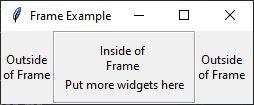
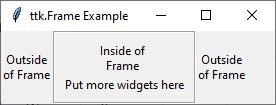
Finished Widget Descriptions

diff --git a/Lectures/tkinter_details.md b/Lectures/tkinter_details.md
@@ -2,6 +2,26 @@
 
 ## Contents
 * <a href="#widget-reference">Using `tkinter` package</a>
+  * <a href="#importing-tkinter-into-your-code">Importing `tkinter` into your code</a>
+  * <a href="#widgets">Widgets</a>
+  * <a href="#geometry-managers">Geometry Managers</a>
+  * <a href="#root-window">Root Window</a>
+  * <a href="#adding-a-widget">Adding A Widget</a>
+  * <a href="#placingdisplaying-widget-in-parent">Placing/Displaying a Widget in Parent</a>
+  * <a href="#activating-gui--starting-root-window">Activating GUI / Starting Root Window</a>
+* <a href="#widget-reference">Widget Reference</a>
+  * <a href="#general">General</a>
+  * <a href="#tk-vs-ttk-widgets">`tk` vs `ttk` Widgets</a>
+  * <a href="#options-common-to-many-widgets">Options common to many widgets</a>
+  * <a href="#common-widgets">Common Widgets</a>
+    * <a href="#window">Window</a>
+    * <a href="#frame">Frame</a>
+    * <a href="#label">Label</a>
+    * <a href="#button">Button</a>
+    * <a href="#checkbutton">Checkbutton</a>
+    * <a href="#radiobutton">Radiobutton</a>
+    * <a href="#entry">Entry</a>
+    * <a href="#combobox">Combobox</a>
 
 ## Using `tkinter` package
 
@@ -54,10 +74,10 @@ root = tk.Tk()  # Defines the top (root) window.
 ```
 To this root window, we now add widgets.
 
-### Creating a Widget
-When creating a child widget, you must always specify the parent widget into 
-which to place the child.  This specification of the parent widget is always 
-done as the first parameter in the call to create a widget.
+### Adding a Widget
+When adding a widget to your GUI, you must always specify the parent widget 
+into which to place the child.  This specification of the parent widget is 
+always done as the first parameter in the call to create a widget.
 
 For example:
 ```
@@ -237,9 +257,9 @@ widgets are listed in the Widgets of Interest section below.
 
 
 
-### Widgets
+### Common Widgets
 #### Window  
-  + ![Window](lecture_files/widget_images/window_widget.JPG)
+![Window](lecture_files/widget_images/window_widget.JPG)
 + `tk.Tk()`  
   `tk.toplevel()`
 + Creates a window.  Use `tk.Tk()` to define the base/root window and use 
@@ -248,29 +268,46 @@ widgets are listed in the Widgets of Interest section below.
   + `background` sets the window background color
 + Options:
   + `background`, `borderwidth`, `height`, `padx`, `pady`, `relief`, `width`
-+ Common Methods:
-  + `.geometry()` returns a string containing the current size and location of
-    the window.  The string will be formatted as `"WxH+X+Y"`.  `W` and `H` are the
-    width and height of the window, in pixels, and are separated by the `x` 
-    character.  `X` is the distance, in pixels, between the top of the screen
-    and the top of the window. `Y` is the distance, in pixels, between the
-    left side of the screen and the left side of the window.  Both `X` and `Y`
-    are generally preceded by the `+` character.  If one of the `+` is replaced
-    by a `-`, then the following distance is related to the opposite side of
-    the screen.  So `"WxH-X-Y"` means that `X` is now the distance between the
-    right side of the screen the the right side of the window, and `Y` is the
-    difference between the bottom of the screen and the bottom of the window.
-  + `.geometry("WxH+X+Y")` sets the initial geometry of the window.  The
-    definition of the input string is the same as described above.  To set the
-    size only, the string can contain only `"WxH"`.  To specify the location
-    only, the string can contain only `"+X+Y"`.
-  + `.minsize(width, height)` and `.maxsize(width, height)` set the minimum
-    and maximum size of the window.
-  + `.title(string)` sets the title of the window as found in the window bar.
++ Common Methods Specific to Window:
+  + `.geometry()` 
+    + returns a string containing the current size and location of
+      the window.  The string will be formatted as `"WxH+X+Y"`.  `W` and `H` are the
+      width and height of the window, in pixels, and are separated by the `x` 
+      character.  `X` is the distance, in pixels, between the top of the screen
+      and the top of the window. `Y` is the distance, in pixels, between the
+      left side of the screen and the left side of the window.  Both `X` and `Y`
+      are generally preceded by the `+` character.  If one of the `+` is replaced
+      by a `-`, then the following distance is related to the opposite side of
+      the screen.  So `"WxH-X-Y"` means that `X` is now the distance between the
+      right side of the screen the the right side of the window, and `Y` is the
+      difference between the bottom of the screen and the bottom of the window.
+  + `.geometry("WxH+X+Y")` 
+    + sets the initial geometry of the window.  The
+      definition of the input string is the same as described above.  To set the
+      size only, the string can contain only `"WxH"`.  To specify the location
+      only, the string can contain only `"+X+Y"`.
+  + `.mainloop()` 
+    + only applies to `tk.Tk()` 
+    + displays the GUI and starts the
+      background loop waiting for any GUI user events.
+  + `.minsize(width, height)`
+    + sets the minimum size of the window.
+  + `.maxsize(width, height)` 
+    + sets the maximum size of the window.
+  + `.title(string)` 
+    + sets the title of the window as found in the window bar.
++ Example Code:
+  ```python
+  root = tk.Tk()
+  root.title("Root Window")
+  root.geometry("400x100")
+  root.mainloop()
+  ```
 
 #### Frame   
-  * ![Frame](lecture_files/widget_images/frame_widget.JPG)  
-  * `frame = ttk.Frame(parent, **options)`
+![Frame](lecture_files/widget_images/frame_tk_widget.JPG)  ![Frame](lecture_files/widget_images/frame_widget.JPG)
+  * `tk.Frame(parent, **options)`
+  * `ttk.Frame(parent, **options)`
   * Can be used to organize a GUI.  Creates a rectangular container inside 
     the parent widget.  The frame then has its own grid manager in which to 
     arrange its own child widgets while the frame is managed by its parents
@@ -279,9 +316,42 @@ widgets are listed in the Widgets of Interest section below.
     * `tk`: `background`, `borderwidth`, `height`, `padx`, `pady`, `relief`,
       `width`
     * `ttk`: `borderwidth`, `height`, `padding`, `relief`, `width`
+  * Example code:
+    ```python
+    frame = ttk.Frame(root, borderwidth=10, relief=tk.GROOVE)
+    frame.grid(column=1, row=0)
+    label1 = ttk.Label(frame, text="Inside of Frame", width=8, wraplength=50,
+                       justify=tk.CENTER)
+    label1.grid(column=0, row=0)
+    label2 = ttk.Label(frame, text="Put more widgets here")
+    label2.grid(column=0, row=1)
+    ```
+
+#### LabelFrame   
+![LabelFrame](lecture_files/widget_images/labelframe_tk_widget.JPG)
+![LabelFrame](lecture_files/widget_images/labelframe_widget.JPG)
+  * `tk.LabelFrame(parent, **options)`
+  * `ttk.LabelFrame(parent, **options)`
+  * Same as `Frame` but includes text as part of the frame border
+  * Options:
+    * `tk`: `background`, `borderwidth`, `foreground`, `height`, `padx`, `pady`, 
+      `relief`, `text`, `width`
+    * `ttk`: `borderwidth`, `height`, `padding`, `relief`, `text`, `width`
+  * Example code:
+    ```python
+    frame = ttk.LabelFrame(root, text="My Frame", borderwidth=10, relief=tk.GROOVE)
+    frame.grid(column=1, row=0)
+    label1 = ttk.Label(frame, text="Inside of Frame", width=8, wraplength=50,
+                       justify=tk.CENTER)
+    label1.grid(column=0, row=0)
+    label2 = ttk.Label(frame, text="Put more widgets here")
+    label2.grid(column=0, row=1)
+    ```
 
 #### Label
-  + `label = ttk.Label(parent, **options)`
+![Label](lecture_files/widget_images/label_widget.JPG)
+  + `tk.Label(parent, **options)`
+  + `ttk.Label(parent, **options)`
   + Creates a label for display of text or image
   + Options most used:
     + `text` takes a string containing the text to show in the label
@@ -294,9 +364,18 @@ widgets are listed in the Widgets of Interest section below.
     + `ttk`: `anchor`, `background`, `borderwidth`, `font`, `foreground`,
       `image`, `justify`, `padding`, `relief`, `text`, `textvariable`,
       `width`, `wraplength`
+  + Example Code:
+    ```python
+    label_1 = ttk.Label(root, text="Label One", foreground="blue")
+    label_1.grid(column=0, row=0)
+    label_2 = ttk.Label(root, text="Label Two", font=("Times", 18))
+    label_2.grid(column=0, row=1)
+    ```
 
 #### Button
-  + `button = ttk.Button(parent, **options)`
+![Button](lecture_files/widget_images/button_widget.JPG)
+  + `tk.Button(parent, **options)`
+  + `ttk.Button(parent, **options)`
   + Creates a clickable button
   + Options most used:
       + `text` takes a string containing the text to show in the button
@@ -304,17 +383,33 @@ widgets are listed in the Widgets of Interest section below.
         display in the button
       + `command` takes a function name that should be executed when the
         button is clicked
-      + `state` that defines whether the button is active or no
+      + `state` that defines whether the button is active or not
   + Options:
     + `tk`: `anchor`, `background`, `borderwidth`, `command`, `font`, `foreground`,
       `height`, `image`, `justify`, `padx`, `pady`, `relief`, `state`, 
       `text`, `textvariable`, `width`, `wraplength`
-    + `ttk`: `command`, `image`, `text`, `textvariable`, `width`
+    + `ttk`: `command`, `image`, `state`, `text`, `textvariable`, `width`
+  + Common Method Specific to Button
+    + `.invoke()` 
+      + calls the button's `command` function and returns what that function
+        returns.  Does nothing if the button is disabled or there is no
+        function assigned to `command`.
+  + Example Code:
+    ```python
+    button = ttk.Button(root, text="Start", command=start_btn_cmd,
+                          state=tk.DISABLED)
+    button.grid(column=0, row=0)
+    ```
 
 #### Checkbutton
-  + `checkbutton = ttk.Checkbutton(parent, **options)` 
+![Checkbutton](lecture_files/widget_images/checkbutton_tk_widget.JPG)
+![Checkbutton](lecture_files/widget_images/checkbutton_widget.JPG)
+  + `tk.Checkbutton(parent, **options)`
+  + `ttk.Checkbutton(parent, **options)` 
   + Creates a check box in which the user can either select (on) or deselect
-    (off) the box
+    (off) the box.  If the initial value of the widget variable to which the
+    checkbutton is attached is not given an initial value, the checkbutton
+    widget will initially show an unselected state (neither on nor off).
   + Options most used:
     + `text` takes a string containing the text to show next to the checkbutton
     + `variable` takes a Widget Variable that will contain the value that
@@ -330,11 +425,33 @@ widgets are listed in the Widgets of Interest section below.
       `foreground`, `height`, `image`, `justify`, `offvalue`, `onvalue`,
       `padx`, `pady`, `relief`, `state`, `text`, `variable`, `width`,
       `wraplength`
-    + `ttk`: `command`, `image`, `offvalue`, `onvalue`, `text`, `variable`,
-      `width`
+    + `ttk`: `command`, `image`, `offvalue`, `onvalue`, `state`, `text`, 
+      `variable`, `width`
+  + Common Methods Specific to Checkbutton (both `tk` and `ttk` versions)
+    + `.invoke()`
+      + calls any `command` function associated with the checkbutton
+  + Common Methods Specific to Checkbutton (`tk` version ONLY)
+    + `.deselect()`
+      + clears (turns off) the checkbutton
+    + `.select()`
+      + sets (turns on) the checkbutton
+    + `.toggle()`
+      + Toggles the state of the checkbutton (turns on if off or off if on)
+  + Example Code:
+    ```python
+    check_status = tk.StringVar()
+    check_status.set("+")
+    checkbutton = ttk.Checkbutton(root, text="rH positive",
+                                  variable=check_status, onvalue="+",
+                                  offvalue="-", command=check_box_changed)
+    checkbutton.grid(column=0, row=0, padx=10, pady=10)
+    ```
 
 #### Radiobutton
-  + `radio_button = ttk.Radiobutton(parent, **options)`
+![Radiobutton](lecture_files/widget_images/radiobutton_tk_widget.JPG)
+![Radiobutton](lecture_files/widget_images/radiobutton_widget.JPG)
+  + `tk.Radiobutton(parent, **options)`
+  + `ttk.Radiobutton(parent, **options)`
   + Create one or more radiobuttons to allow the user to make a choice from
     among one or more alternatives.
   + When radiobuttons use linked to the same Widget Variable, they represent
@@ -351,10 +468,39 @@ widgets are listed in the Widgets of Interest section below.
     + `tk`: `anchor`, `background`, `borderwidth`, `command`, `font`,
       `foreground`, `height`, `justify`, `padx`, `pady`, `relief`, `state`
       `text`, `value`, `variable`, `width`, `wraplength`
-    + `ttk`: `command`, `text`, `value`, `variable`, `width`
+    + `ttk`: `command`, `state`, `text`, `value`, `variable`, `width`
+ + Common Methods Specific to Radiobutton (both `tk` and `ttk` versions)
+    + `.invoke()`
+      + calls any `command` function associated with the radiobutton
+  + Common Methods Specific to Radiobutton (`tk` version ONLY)
+    + `.deselect()`
+      + Clears (turns off) the radiobutton
+    + `.select()`
+      + Sets (turns on) the radiobutton
+  + Example Code:
+    ```python
+    # Two radiobuttons grouped by the `am_pm` StringVar
+    am_pm = tk.StringVar()
+    am_pm.set("AM")
+    rb_1 = ttk.Radiobutton(root, text="AM", variable=am_pm, value="AM")
+    rb_1.grid(column=0, row=0, padx=10)
+    rb_2 = ttk.Radiobutton(root, text="PM", variable=am_pm, value="PM")
+    rb_2.grid(column=0, row=1, padx=10)
+
+    # Two radiobuttons grouped by the `time_tpe` StringVar
+    time_type = tk.StringVar()
+    time_type.set("am pm")
+    rb_3 = ttk.Radiobutton(root, text="24 hour clock", variable=time_type, value="24 hr")
+    rb_3.grid(column=1, row=0, padx=10)
+    rb_4 = ttk.Radiobutton(root, text="AM/PM clock", variable=time_type, value="am pm")
+    rb_4.grid(column=1, row=1, padx=10)
+    ```
 
 #### Entry
-  + `entry = ttk.Entry(parent, **options)`
+![Entry](lecture_files/widget_images/entry_tk_widget.JPG)
+![Entry](lecture_files/widget_images/entry_widget.JPG)
+  + `tk.Entry(parent, **options)`
+  + `ttk.Entry(parent, **options)`
   + Provides a text entry box to receive user input from the keyboard
   + Options most used:
     + `width` specifies the width of the entry box in number of characters
@@ -366,10 +512,23 @@ widgets are listed in the Widgets of Interest section below.
   + Options:
     + `tk`: `background`, `borderwidth`, `foreground`, `font`, `justify`,
       `relief`, `show`, `state`, `textvariable`, `width`
-    + `ttk`: `font`, `justify`, `show`, `textvariable`, `width`
+    + `ttk`: `font`, `justify`, `show`, `state`, `textvariable`, `width`
+  + Example Code:
+    ```python
+    ttk.Label(root, text="Name:").grid(column=0, row=0, sticky=tk.E)
+    name_variable = tk.StringVar()
+    name_entry = ttk.Entry(root, textvariable=name_variable, width=30)
+    name_entry.grid(column=1, row=0, pady=5)
+    
+    ttk.Label(root, text="Phone Number:").grid(column=0, row=1, sticky=tk.E)
+    phone_variable = tk.StringVar()
+    phone_entry = ttk.Entry(root, textvariable=phone_variable, width=15)
+    phone_entry.grid(column=1, row=1, sticky=tk.W, pady=5)
+    ```
 
 #### Combobox
-  + `combo_box = ttk.Combobox(parent, **options)`
+![Combobox](lecture_files/widget_images/combobox_widget.png)
+  + `ttk.Combobox(parent, **options)`
   + Creates a combination of entry box and drop-down menu to allow for the
     user to make an input based on pre-defined options or their own entry
   + Only available as a `ttk` widget
@@ -386,8 +545,8 @@ widgets are listed in the Widgets of Interest section below.
     + `textvariable` specifies the Widget Variable that will contain the 
       value that is shown in the Combobox.
   + Options:
-    + `ttk`: `height`, `justify`, `postcommand`, `textvariable`, `values`,
-      `width`
+    + `ttk`: `height`, `justify`, `postcommand`, `state`, `textvariable`, 
+      `values`, `width`
   + Common Methods:
     + `.get()` returns the current value in the Combobox
     + `.set(value)` sets the current text in the widget to `value`
@@ -567,3 +726,4 @@ may_label.grid(column=2, row=1, sticky="NE")
 Add info on Widget Variables
 Add info on linking functions with command
 Make a ToC at the top of the page
+Add methods common to all widgets
